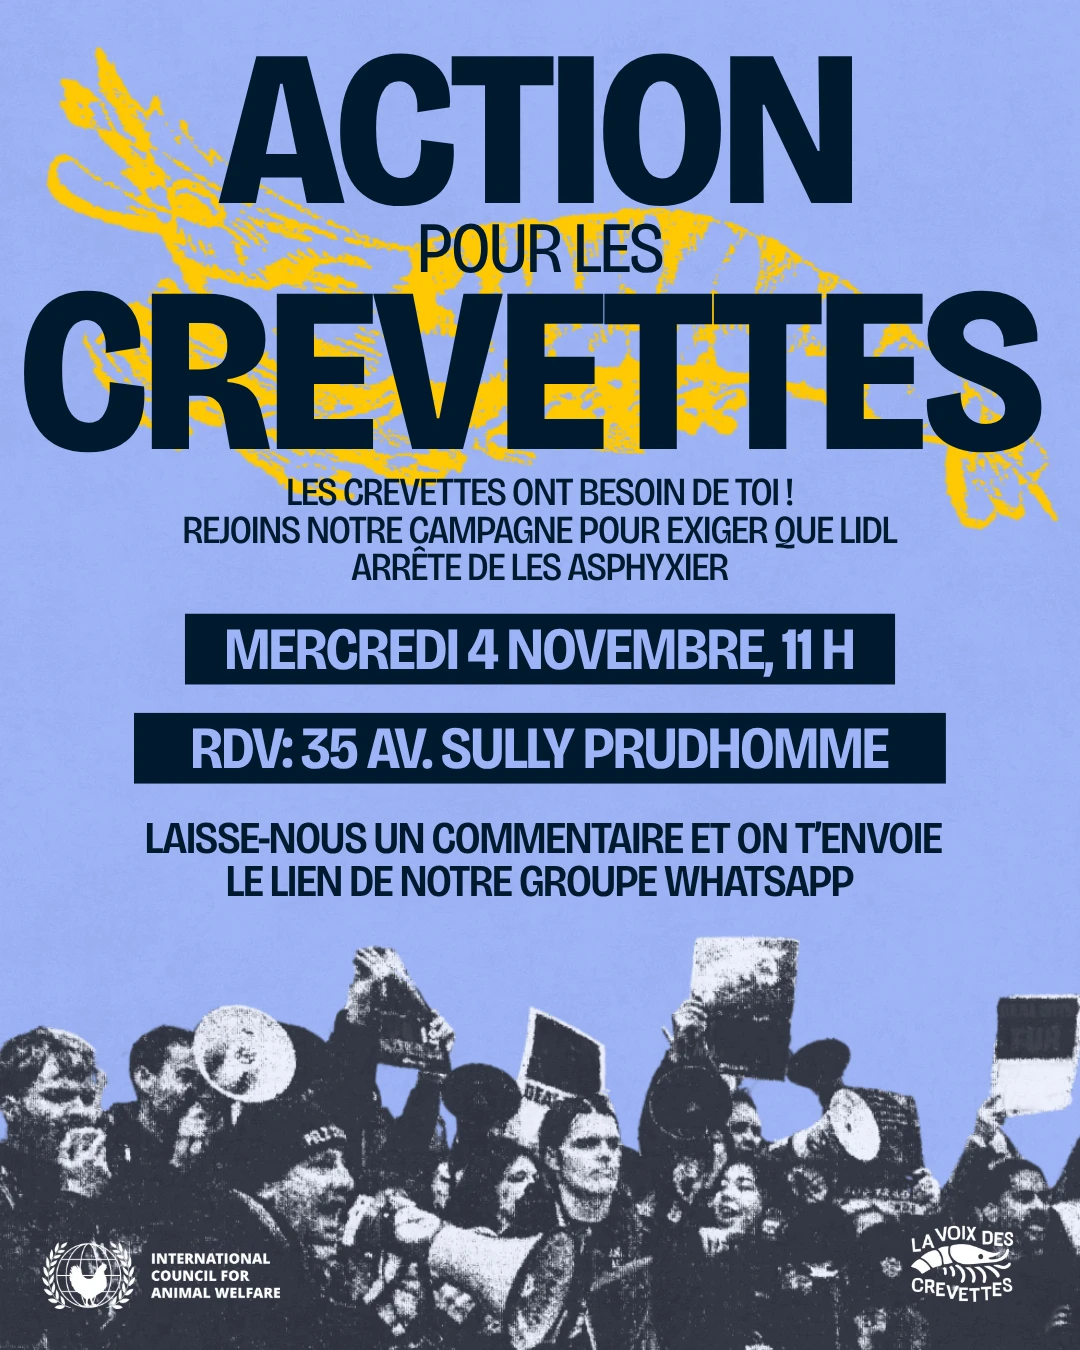
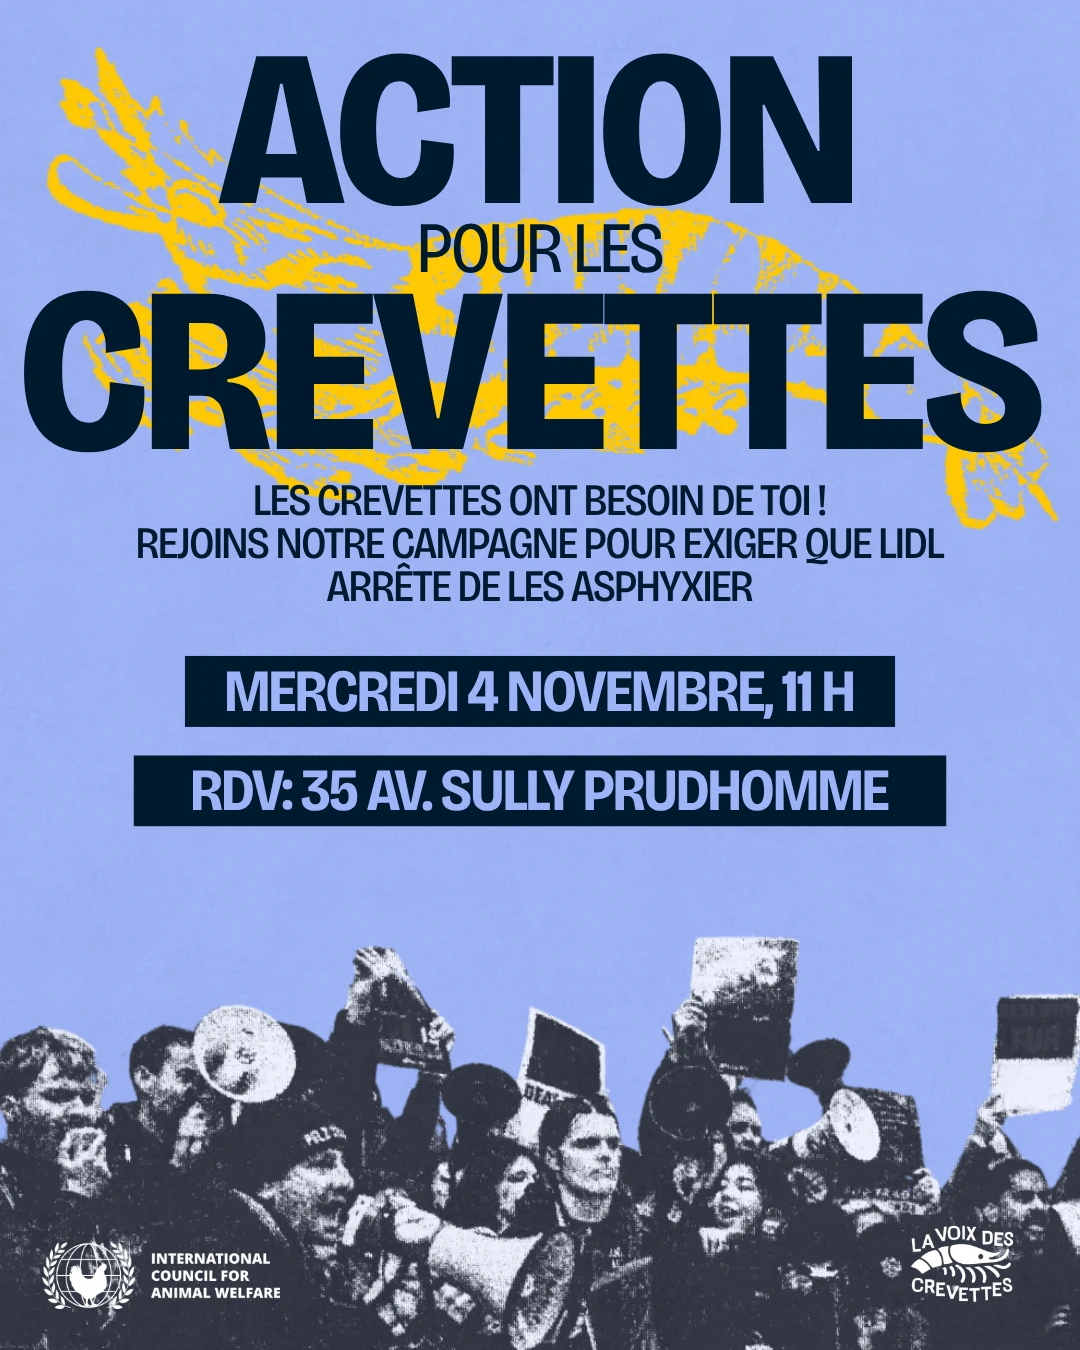
Share-the-action button and new 4 Nov flyer
- "Partager l'action" on every event (event page, agenda, home): native share
  sheet with the flyer (JPEG) and a ready-made text on phones; WhatsApp,
  Telegram, email, copy text and download flyer on computers
- WhatsApp group link configurable site-wide or per event (falls back to Instagram)
- New flyer for the 4 November action

Changed region(s): [[0.1222, 0.3422, 0.8861, 0.6844]]

diff --git a/src/scripts/share-event.js b/src/scripts/share-event.js
@@ -1,0 +1,60 @@
+// "Share this action": native share sheet with flyer + text on phones/tablets,
+// a panel of links (WhatsApp, Telegram, email, copy, download) on computers or older browsers.
+
+const touch = matchMedia('(pointer: coarse)').matches;
+const files = new Map(); // flyer URL → File (prepared in advance: Safari only allows sharing right after the tap)
+
+async function prepare(src, name) {
+  if (!src || files.has(src) || !navigator.canShare) return;
+  files.set(src, null);
+  try {
+    const blob = await (await fetch(src)).blob();
+    const file = new File([blob], name, { type: blob.type || 'image/jpeg' });
+    if (navigator.canShare({ files: [file] })) files.set(src, file);
+  } catch {
+    /* no flyer, the text is still shared */
+  }
+}
+
+for (const box of document.querySelectorAll('[data-share-event]')) {
+  const btn = box.querySelector('[data-share-go]');
+  const panel = box.querySelector('[data-share-panel]');
+  const status = box.querySelector('[data-share-status]');
+  const { title, text, flyer, flyerName, copied, thanks } = box.dataset;
+  const useNative = touch && 'share' in navigator;
+
+  if (useNative) {
+    new IntersectionObserver(([e], io) => {
+      if (e.isIntersecting) {
+        io.disconnect();
+        prepare(flyer, flyerName);
+      }
+    }).observe(box);
+  }
+
+  const togglePanel = (open = panel.hidden) => {
+    panel.hidden = !open;
+    btn.setAttribute('aria-expanded', String(open));
+  };
+
+  btn.addEventListener('click', async () => {
+    if (!useNative) return togglePanel();
+    const file = files.get(flyer);
+    try {
+      await navigator.share(file ? { files: [file], title, text } : { title, text });
+      status.textContent = thanks;
+    } catch (err) {
+      if (err && err.name === 'AbortError') return; // closed the share sheet
+      togglePanel(true); // anything else: fall back to the links
+    }
+  });
+
+  box.querySelector('[data-share-copy]')?.addEventListener('click', async () => {
+    try {
+      await navigator.clipboard.writeText(text);
+      status.textContent = copied;
+    } catch {
+      prompt('', text);
+    }
+  });
+}

diff --git a/src/styles/global.css b/src/styles/global.css
@@ -1577,3 +1577,33 @@ textarea {
 .dark .steps li { border-color: var(--bleu); }
 .dark .steps li::before { -webkit-text-stroke-color: var(--jaune); }
 .dark .steps h3 { color: var(--blanc); }
+
+/* ---------- Share-the-action button ---------- */
+/* inside a row of actions, the button sits inline and its panel drops to a full-width line */
+.event-actions .share-event {
+  display: contents;
+}
+.share-panel {
+  flex-basis: 100%;
+  width: 100%;
+  margin-top: 4px;
+  padding: 12px 14px;
+  border: 2px dashed var(--marine);
+  background: var(--blanc);
+}
+.share-panel .meta {
+  margin: 0 0 8px;
+}
+.share-links {
+  display: flex;
+  flex-wrap: wrap;
+  gap: 8px;
+}
+.share-event .share-status {
+  flex-basis: 100%;
+  margin: 0;
+  font-weight: 700;
+}
+.share-event .share-status:empty {
+  display: none;
+}

diff --git a/src/config.ts b/src/config.ts
@@ -29,6 +29,13 @@ export const site = {
   },
 
   /**
+   * WhatsApp group invite link (e.g. "https://chat.whatsapp.com/…"), used in the "share the action" text.
+   * An event can override it with its own `whatsapp:` field. Empty = the text points to Instagram instead.
+   * Tip: turn on "Approve new members" in the group settings, since this link will be public.
+   */
+  whatsappGroup: '',
+
+  /**
    * Contact form endpoint (Formspree, e.g. "https://formspree.io/f/abcdwxyz").
    * Empty = the form shows a notice and points to Instagram instead.
    */

diff --git a/src/content.config.ts b/src/content.config.ts
@@ -24,6 +24,10 @@ const events = defineCollection({
       status: z.enum(['prevu', 'annule', 'reporte']).default('prevu'),
       poster: image().optional(),
       posterAlt: l10n.optional(),
+      /** WhatsApp group for this action (overrides site.whatsappGroup) */
+      whatsapp: z.string().url().optional(),
+      /** custom text for the share button (otherwise built from title, date, place and summary) */
+      shareText: l10n.optional(),
     }),
 });
 
